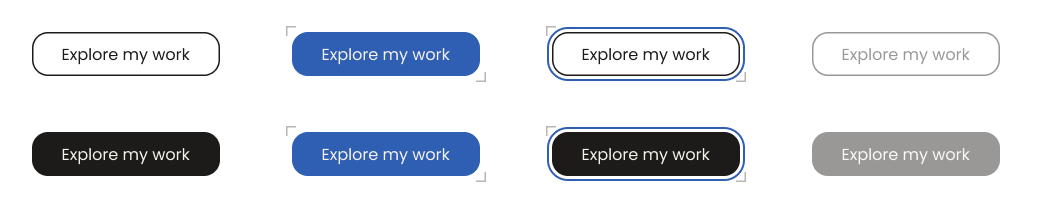
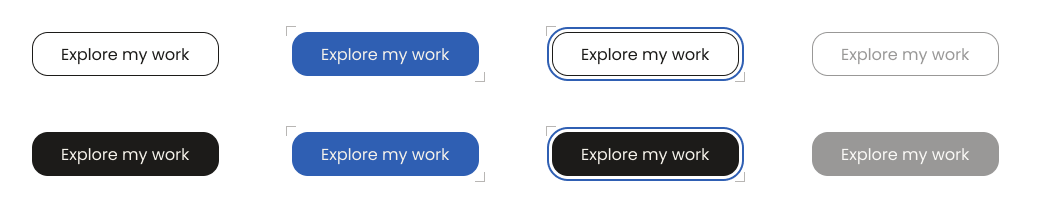
Apply Ashni's decisions: disabled at 45%, 1px outline, token names approved
- Token map supports explicit design-decision overrides; the source value and
  the reason stay in provenance and in the Figma variable description.
- line.building is 1px (source 1.5px). Disabled state confidence: decided.
- Token map status: approved. Button spec v0.2.0.
- Figma re-synced: line/building = 1, read-back check passes, screenshot updated.

Claude-Session: https://claude.ai/code/session_01CG5Vqg1SNWEqtdvXmqwYXz

diff --git a/packages/tokens/src/promote.ts b/packages/tokens/src/promote.ts
@@ -13,7 +13,22 @@ export const TokenMap = z.object({
   status: z.enum(['pending-approval', 'approved']),
   tokens: z.record(
     z.string().regex(/^[a-z]+(\.[a-z0-9-]+)+$/, 'Canonical names are dot paths like "color.ink"'),
-    z.object({ from: z.string().regex(/^[a-z0-9-]+$/), description: z.string().optional() }),
+    z.object({
+      from: z.string().regex(/^[a-z0-9-]+$/),
+      description: z.string().optional(),
+      /**
+       * A design decision that replaces the source value. The source value stays in provenance,
+       * so the change from the live site is always visible and reversible.
+       */
+      override: z
+        .object({
+          value: z.string(),
+          reason: z.string().min(1),
+          decidedBy: z.string().min(1),
+          date: z.iso.date(),
+        })
+        .optional(),
+    }),
   ),
 });
 export type TokenMap = z.infer<typeof TokenMap>;
@@ -128,7 +143,20 @@ export function promoteTokens(inv: AuditInventory, map: TokenMap): Record<string
     const path = name.split('.');
     let node = out;
     for (const seg of path.slice(0, -1)) node = (node[seg] ??= {}) as Record<string, unknown>;
-    node[path.at(-1)!] = toDtcgToken(byId.get(m.from)!, inv.source.commit, m.description);
+    const source = byId.get(m.from)!;
+    if (!m.override) {
+      node[path.at(-1)!] = toDtcgToken(source, inv.source.commit, m.description);
+      continue;
+    }
+    const token = toDtcgToken({ ...source, value: m.override.value }, inv.source.commit, m.description);
+    const prov = token.$extensions['dev.dsa.provenance'] as Record<string, unknown>;
+    token.$extensions['dev.dsa.provenance'] = {
+      ...prov,
+      confidence: 'decided',
+      sourceValue: source.value.trim(),
+      decision: m.override,
+    };
+    node[path.at(-1)!] = token;
   }
   return out;
 }

diff --git a/packages/tokens/src/tokens.test.ts b/packages/tokens/src/tokens.test.ts
@@ -1,7 +1,7 @@
 import { describe, expect, it } from 'vitest';
 import { fileURLToPath } from 'node:url';
 import { runAudit } from '@dsa/discovery';
-import { promoteTokens, toDtcgToken, type TokenMap } from './promote.ts';
+import { TokenMap as TokenMapSchema, promoteTokens, toDtcgToken, type TokenMap } from './promote.ts';
 import { renderCss, type ManifestToken } from './build.ts';
 
 const fixture = fileURLToPath(new URL('../../../tests/fixtures/mini-site', import.meta.url));
@@ -42,6 +42,30 @@ describe('promoteTokens', () => {
     expect((out.motion as Record<string, Record<string, unknown>>).easing!.pen).toMatchObject({
       $value: [0.2, 0, 0, 1],
     });
+  });
+
+  it('applies a design decision but keeps the source value in provenance', () => {
+    const decided = promoteTokens(inv, {
+      ...map,
+      tokens: {
+        'space.4': {
+          from: 'space-4',
+          override: { value: '30px', reason: 'Test decision', decidedBy: 'Ashni', date: '2026-11-02' },
+        },
+      },
+    }) as Record<string, Record<string, Record<string, unknown>>>;
+    const token = decided.space!['4'] as { $value: string; $extensions: Record<string, Record<string, unknown>> };
+    expect(token.$value).toBe('30px');
+    expect(token.$extensions['dev.dsa.provenance']).toMatchObject({
+      confidence: 'decided',
+      sourceValue: '28px',
+      decision: { reason: 'Test decision', decidedBy: 'Ashni' },
+    });
+  });
+
+  it('refuses a design decision without a reason', () => {
+    const bad = { from: 'space-4', override: { value: '30px', reason: '', decidedBy: 'Ashni', date: '2026-11-02' } };
+    expect(() => TokenMapSchema.parse({ ...map, tokens: { 'space.4': bad } })).toThrow();
   });
 
   it('refuses a map entry that is not in the audit', () => {

diff --git a/packages/gen-figma/src/generate.ts b/packages/gen-figma/src/generate.ts
@@ -16,7 +16,7 @@ export interface ManifestToken {
   description?: string;
   responsive?: { minWidth: number; value: string }[];
   fluid?: { min: string; max: string; css: string };
-  provenance: { source: string };
+  provenance: { source: string; sourceValue?: string; decision?: { reason: string; decidedBy: string; date: string } };
 }
 
 export const FigmaMap = z.object({
@@ -80,6 +80,9 @@ export function toFigmaVariables(tokens: ManifestToken[]): FigmaVariable[] {
       t.fluid ? `Fluid in code: ${t.fluid.css}. Figma holds the minimum.` : undefined,
       t.responsive?.length
         ? `In code: ${t.responsive.map((r) => `${r.value} from ${r.minWidth}px`).join(', ')}.`
+        : undefined,
+      t.provenance.decision
+        ? `Design decision (${t.provenance.decision.decidedBy}, ${t.provenance.decision.date}): ${t.provenance.decision.reason} Source had ${t.provenance.sourceValue}.`
         : undefined,
       `Source: ${t.provenance.source}`,
     ].filter(Boolean);

diff --git a/packages/tokens/src/build.ts b/packages/tokens/src/build.ts
@@ -20,7 +20,15 @@ export interface ManifestToken {
   responsive?: { minWidth: number; value: string }[];
   fluid?: { min: string; max: string; css: string };
   reducedMotion?: string;
-  provenance: { source: string; sourceVar: string; commit: string; confidence: string };
+  provenance: {
+    source: string;
+    sourceVar: string;
+    commit: string;
+    confidence: string;
+    /** Present when a design decision replaced the source value. */
+    sourceValue?: string;
+    decision?: { value: string; reason: string; decidedBy: string; date: string };
+  };
 }
 
 const ext = <T>(t: TransformedToken, key: string): T | undefined =>

diff --git a/packages/gen-figma/src/generate.test.ts b/packages/gen-figma/src/generate.test.ts
@@ -41,6 +41,12 @@ describe('toFigmaVariables', () => {
     expect(byName['font.size.body']!.description).toContain('clamp(16px, 1.4vw, 18px)');
   });
 
+  it('explains design decisions that replace the source value', () => {
+    expect(byName['line.building']).toMatchObject({ value: 1 });
+    expect(byName['line.building']!.description).toContain('Design decision (Ashni, 2026-11-02)');
+    expect(byName['line.building']!.description).toContain('Source had 1.5px');
+  });
+
   it('keeps provenance in the description', () => {
     expect(byName['color.ink']!.description).toMatch(/Source: src\/styles\/tokens\.css:\d+/);
   });

diff --git a/packages/registry/src/audit.ts b/packages/registry/src/audit.ts
@@ -13,7 +13,11 @@ import { z } from 'zod';
 
 export const AUDIT_SCHEMA_VERSION = 1 as const;
 
-export const Confidence = z.enum(['observed', 'inferred', 'proposed']);
+/**
+ * observed: read directly from the source. inferred: derived by a rule. proposed: suggested by
+ * the agent, not yet approved. decided: a design decision by the owner, recorded with a reason.
+ */
+export const Confidence = z.enum(['observed', 'inferred', 'proposed', 'decided']);
 export type Confidence = z.infer<typeof Confidence>;
 
 export const SourceRef = z.object({

diff --git a/packages/ui/src/button/Button.stories.tsx b/packages/ui/src/button/Button.stories.tsx
@@ -40,9 +40,10 @@ export const AsLinkWithIcon: Story = {
 };
 
 export const Disabled: Story = {
-  name: 'Disabled (proposed)',
   args: { disabled: true, children: 'Copy email' },
-  parameters: { docs: { description: { story: 'Not in the source site. Proposed state, pending design approval.' } } },
+  parameters: {
+    docs: { description: { story: 'Not in the source site. Added by design decision (Ashni, 2026-11-02).' } },
+  },
 };
 
 export const LongLabel: Story = {

diff --git a/packages/ui/src/button/button.css b/packages/ui/src/button/button.css
@@ -75,7 +75,7 @@
   opacity: 1;
 }
 
-/* PROPOSED (not in the source): disabled state. Pending design approval. */
+/* DECIDED (not in the source): disabled state at 45% opacity. Approved by Ashni, 2026-11-02. */
 .ds-button:disabled {
   opacity: 0.45;
   cursor: not-allowed;

diff --git a/packages/tokens/dist/tokens.css b/packages/tokens/dist/tokens.css
@@ -18,7 +18,7 @@
   --layout-content-max: 1280px;
   --layout-gutter: 24px;
   --layout-margin: 16px;
-  --line-building: 1.5px;
+  --line-building: 1px;
   --line-cut: 3px;
   --line-hair: 0.5px;
   --line-thin: 1px;

diff --git a/DECISIONS.md b/DECISIONS.md
@@ -2,23 +2,25 @@
 
 Short log of engineering decisions. Larger ones have an ADR in `docs/adr/`. Product and design decisions are Ashni's and are marked as such.
 
-| #   | Date       | Decision                                                                                                                                | Why                                                                                                                       |
-| --- | ---------- | --------------------------------------------------------------------------------------------------------------------------------------- | ------------------------------------------------------------------------------------------------------------------------- |
-| 1   | 2026-11-02 | Own private repo, separate from every source. Sources are read at a pinned commit.                                                      | Never risk the live site; every audit is reproducible. (ADR 0001)                                                         |
-| 2   | 2026-11-02 | AI proposes, scripts generate. Audits and specs are validated with zod before writing.                                                  | Repeatable, testable output instead of one-off AI generation. (ADR 0001)                                                  |
-| 3   | 2026-11-02 | One pipeline in one repo with packages, not separate services for each agent capability.                                                | One person plus Claude can maintain it; the brief asks for this.                                                          |
-| 4   | 2026-11-02 | npm workspaces, strict TypeScript, Node's built-in type stripping for CLIs.                                                             | No build step for tools; fewer moving parts.                                                                              |
-| 5   | 2026-11-02 | DTCG token format with `$extensions` under `dev.dsa.*` for provenance, responsive, fluid and reduced-motion values.                     | Standard format other tools read; extensions keep what DTCG cannot express yet.                                           |
-| 6   | 2026-11-02 | Token values come only from the audit inventory; the curated map holds names and descriptions.                                          | Hand-typed values were wrong once; this makes every value traceable.                                                      |
-| 7   | 2026-11-02 | Style Dictionary 5 with two custom formats (CSS and a flat manifest).                                                                   | Maintained, Apache 2.0; the manifest gives Figma, docs and agents one shared input.                                       |
-| 8   | 2026-11-02 | Fluid `clamp()` tokens store the minimum as the static value.                                                                           | Figma variables cannot hold `clamp()`. The minimum matches the mobile base. Code keeps the clamp.                         |
-| 9   | 2026-11-02 | Storybook 10 for the docs site, with a Playwright check over every story.                                                               | Previews, controls and prop tables for free; the browser check makes interaction and contrast tests real, not assumed.    |
-| 10  | 2026-11-02 | Agent docs are generated: `catalog.json`, per-component Markdown, `llms.txt`, props from the TypeScript checker.                        | Ashni asked for components humans and agents can both read. Generated docs cannot drift from code.                        |
-| 11  | 2026-11-02 | Figma writes use the official Figma MCP `use_figma` tool, writing only to Ashni's scratch file `wCnc6RXvuK5ZuwanC1epne`.                | Works on the free plan; no token stored in the repo; no write to any original file.                                       |
-| 12  | 2026-11-02 | Every Figma write returns a read-back that is checked against the registry before ids are saved.                                        | Gate 0 showed one binding silently failing. In MVP v1 the check caught two more real bugs (see `KNOWN_ISSUES.md`, fixed). |
-| 13  | 2026-11-02 | Bound paints carry the token's colour as their raw fallback, and the read-back flags any mismatch.                                      | Figma rendered bound paints with a black fallback. Found by screenshot, then made a permanent check.                      |
-| 14  | 2026-11-02 | Figma variables use one mode named "Value" holding the mobile-base values. Responsive values are written into the variable description. | Free-plan mode limits are unverified, and Figma has no breakpoint modes. Revisit with themes.                             |
-| 15  | 2026-11-02 | Disabled Button state is **proposed** (45% opacity), not observed. Status: awaiting Ashni.                                              | The source has no disabled style. Product decision.                                                                       |
-| 16  | 2026-11-02 | The Button does not support being a `<span>` inside a link (as `Work.tsx:70` does in the source).                                       | Nested interactive elements are an accessibility bug; the card should be the link.                                        |
-| 17  | 2026-11-02 | Style parity and source audit run locally, not in CI.                                                                                   | The source repo is private; CI holds no secrets.                                                                          |
-| 18  | 2026-11-02 | `npm ci --ignore-scripts` everywhere.                                                                                                   | Install scripts are a supply-chain risk and nothing here needs them (verified with a clean install).                      |
+| #   | Date       | Decision                                                                                                                                                | Why                                                                                                                        |
+| --- | ---------- | ------------------------------------------------------------------------------------------------------------------------------------------------------- | -------------------------------------------------------------------------------------------------------------------------- |
+| 1   | 2026-11-02 | Own private repo, separate from every source. Sources are read at a pinned commit.                                                                      | Never risk the live site; every audit is reproducible. (ADR 0001)                                                          |
+| 2   | 2026-11-02 | AI proposes, scripts generate. Audits and specs are validated with zod before writing.                                                                  | Repeatable, testable output instead of one-off AI generation. (ADR 0001)                                                   |
+| 3   | 2026-11-02 | One pipeline in one repo with packages, not separate services for each agent capability.                                                                | One person plus Claude can maintain it; the brief asks for this.                                                           |
+| 4   | 2026-11-02 | npm workspaces, strict TypeScript, Node's built-in type stripping for CLIs.                                                                             | No build step for tools; fewer moving parts.                                                                               |
+| 5   | 2026-11-02 | DTCG token format with `$extensions` under `dev.dsa.*` for provenance, responsive, fluid and reduced-motion values.                                     | Standard format other tools read; extensions keep what DTCG cannot express yet.                                            |
+| 6   | 2026-11-02 | Token values come only from the audit inventory; the curated map holds names and descriptions.                                                          | Hand-typed values were wrong once; this makes every value traceable.                                                       |
+| 7   | 2026-11-02 | Style Dictionary 5 with two custom formats (CSS and a flat manifest).                                                                                   | Maintained, Apache 2.0; the manifest gives Figma, docs and agents one shared input.                                        |
+| 8   | 2026-11-02 | Fluid `clamp()` tokens store the minimum as the static value.                                                                                           | Figma variables cannot hold `clamp()`. The minimum matches the mobile base. Code keeps the clamp.                          |
+| 9   | 2026-11-02 | Storybook 10 for the docs site, with a Playwright check over every story.                                                                               | Previews, controls and prop tables for free; the browser check makes interaction and contrast tests real, not assumed.     |
+| 10  | 2026-11-02 | Agent docs are generated: `catalog.json`, per-component Markdown, `llms.txt`, props from the TypeScript checker.                                        | Ashni asked for components humans and agents can both read. Generated docs cannot drift from code.                         |
+| 11  | 2026-11-02 | Figma writes use the official Figma MCP `use_figma` tool, writing only to Ashni's scratch file `wCnc6RXvuK5ZuwanC1epne`.                                | Works on the free plan; no token stored in the repo; no write to any original file.                                        |
+| 12  | 2026-11-02 | Every Figma write returns a read-back that is checked against the registry before ids are saved.                                                        | Gate 0 showed one binding silently failing. In MVP v1 the check caught two more real bugs (see `KNOWN_ISSUES.md`, fixed).  |
+| 13  | 2026-11-02 | Bound paints carry the token's colour as their raw fallback, and the read-back flags any mismatch.                                                      | Figma rendered bound paints with a black fallback. Found by screenshot, then made a permanent check.                       |
+| 14  | 2026-11-02 | Figma variables use one mode named "Value" holding the mobile-base values. Responsive values are written into the variable description.                 | Free-plan mode limits are unverified, and Figma has no breakpoint modes. Revisit with themes.                              |
+| 15  | 2026-11-02 | Disabled Button state: 45% opacity. Not in the source. **Decided by Ashni.**                                                                            | The source has no disabled style. Product decision.                                                                        |
+| 16  | 2026-11-02 | The Button does not support being a `<span>` inside a link (as `Work.tsx:70` does in the source).                                                       | Nested interactive elements are an accessibility bug; the card should be the link.                                         |
+| 17  | 2026-11-02 | Style parity and source audit run locally, not in CI.                                                                                                   | The source repo is private; CI holds no secrets.                                                                           |
+| 18  | 2026-11-02 | `npm ci --ignore-scripts` everywhere.                                                                                                                   | Install scripts are a supply-chain risk and nothing here needs them (verified with a clean install).                       |
+| 19  | 2026-11-02 | `line.building` is 1px, not the source's 1.5px. **Decided by Ashni.** Recorded as an `override` in the token map; the source value stays in provenance. | Browsers draw 1.5px as 1px on standard screens; 1px matches what people see. Design decisions are explicit and reversible. |
+| 20  | 2026-11-02 | Token names approved by Ashni (`registry/tokens/ashnidave.token-map.json`, status approved).                                                            | Product decision.                                                                                                          |

diff --git a/docs/agents/components/button.md b/docs/agents/components/button.md
@@ -2,7 +2,7 @@
 
 > An action or navigation link with an ink outline or fill that turns marker blue on hover, with registration corner marks on hover and focus.
 
-Status: **pending-approval** · Version 0.1.0 · Source: ashnidave @ `e072889`
+Status: **pending-approval** · Version 0.2.0 · Source: ashnidave @ `e072889`
 
 ## Use it
 
@@ -49,7 +49,7 @@ Generated from `packages/ui/src/button/Button.tsx`. All other native `<button>` 
 | default | At rest. | As the variant describes. | observed |
 | hover | Pointer over the button. | Marker fill and outline, paper label, corner marks appear. | observed |
 | focus-visible | Keyboard focus. | 2px marker outline offset 3px, corner marks appear. Fill unchanged. | observed |
-| disabled | disabled attribute on a button (links cannot be disabled). | 45% opacity, no hover change, not-allowed cursor. | proposed |
+| disabled | disabled attribute on a button (links cannot be disabled). | 45% opacity, no hover change, not-allowed cursor. Not in the source; decided by Ashni on 2026-11-02. | decided |
 
 ## Anatomy
 
@@ -72,7 +72,7 @@ Generated from `packages/ui/src/button/Button.tsx`. All other native `<button>` 
 | `space.4` | `--space-4` | `28px` | horizontal padding |
 | `size.tap` | `--size-tap` | `44px` | minimum height |
 | `radius.default` | `--radius-default` | `16px` | corner radius |
-| `line.building` | `--line-building` | `1.5px` | outline and corner mark weight |
+| `line.building` | `--line-building` | `1px` | outline and corner mark weight |
 | `motion.duration.micro` | `--motion-duration-micro` | `150ms` | hover transition |
 | `motion.easing.pen` | `--motion-easing-pen` | `cubic-bezier(0.2, 0, 0, 1)` | hover transition |
 
@@ -124,5 +124,4 @@ Don't:
 
 ## Open questions
 
-- Approve the proposed disabled state, or leave disabled unstyled like the source?
-- Should the 1.5px outline stay 1.5px? Chromium draws it as 1px on standard screens, so the site looks thinner than the token.
+None.

diff --git a/KNOWN_ISSUES.md b/KNOWN_ISSUES.md
@@ -6,8 +6,6 @@ Open issues first, then issues found and fixed during MVP v1 (kept so the same m
 
 | Area     | Issue                                                                                                                | Impact                                                    | Next step                                                   |
 | -------- | -------------------------------------------------------------------------------------------------------------------- | --------------------------------------------------------- | ----------------------------------------------------------- |
-| Design   | Disabled Button state is proposed, not taken from the source.                                                        | Could ship a style Ashni does not want.                   | Ashni's decision.                                           |
-| Design   | The 1.5px outline token renders as 1px in Chromium on standard (1x) screens. Figma shows 1.5px.                      | Figma looks slightly heavier than the live site.          | Ashni's decision: keep 1.5px or change to 1px.              |
 | Figma    | One variable mode holding mobile-base values. Responsive and fluid values are only described, not modelled.          | Desktop sizes are not switchable in Figma.                | Revisit with themes; verify free-plan mode limits first.    |
 | Figma    | No icon slot in the Figma Button yet (code supports an icon).                                                        | Designers cannot add the arrow icon in Figma.             | Add an instance-swap icon property with the first icon set. |
 | Figma    | Line-height (165%) and the focus ring (2px, offset 3px) are fixed values, not variables.                             | Cannot be themed in Figma.                                | Add line-height and focus tokens.                           |
